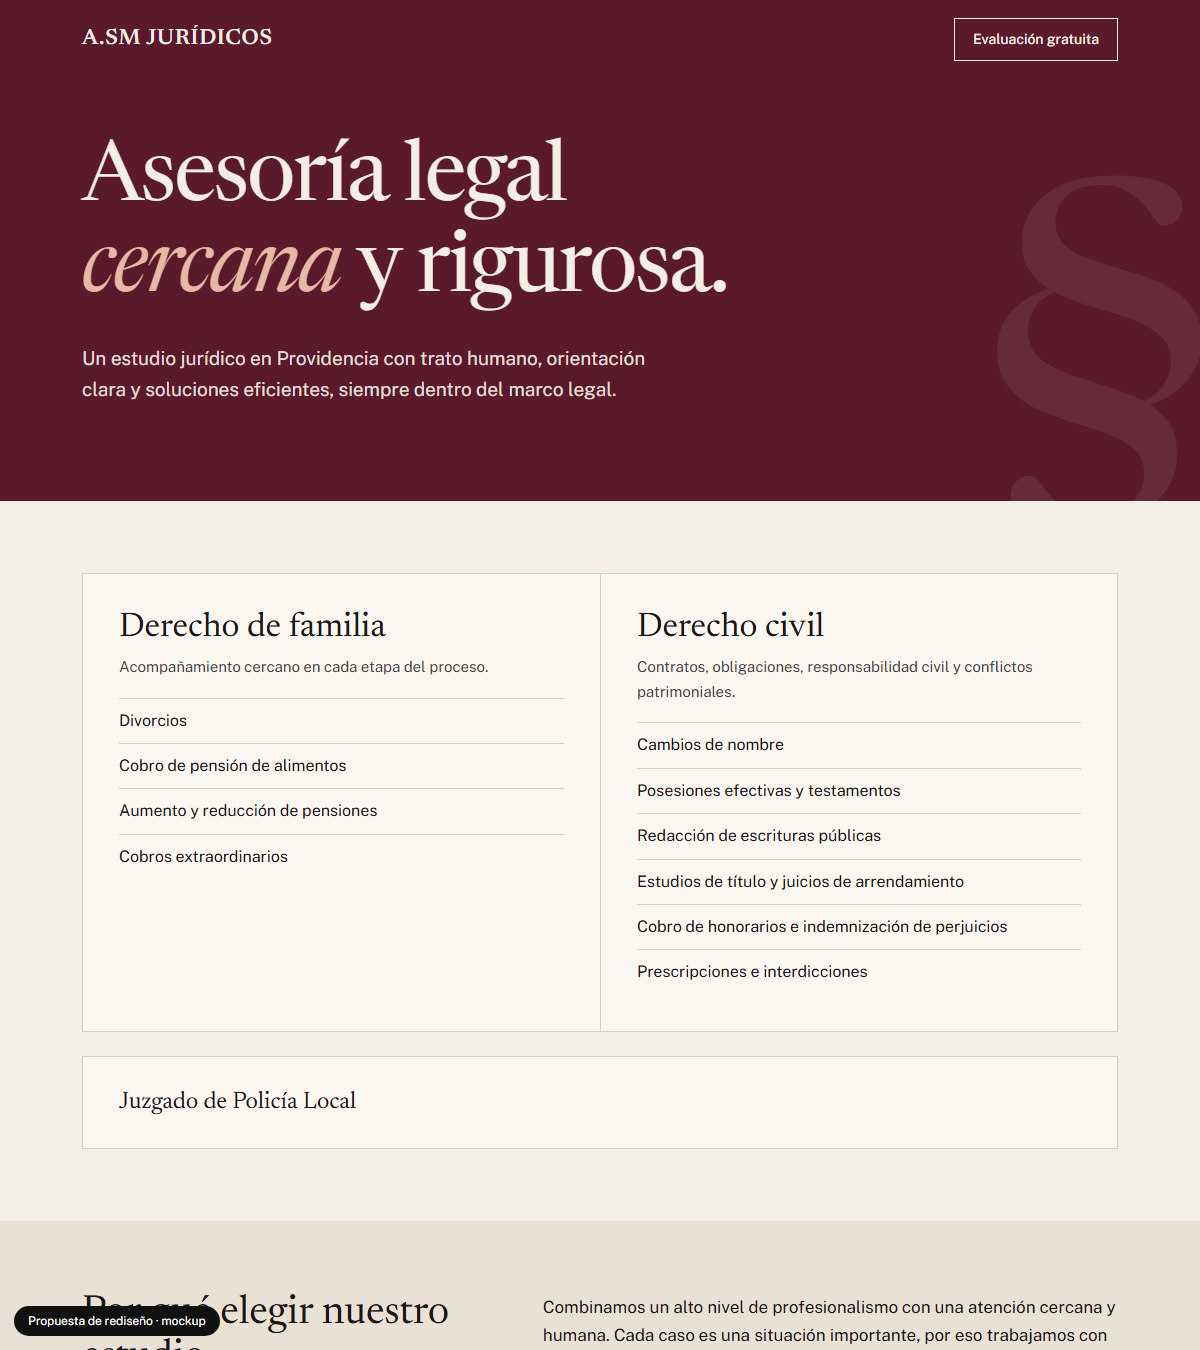
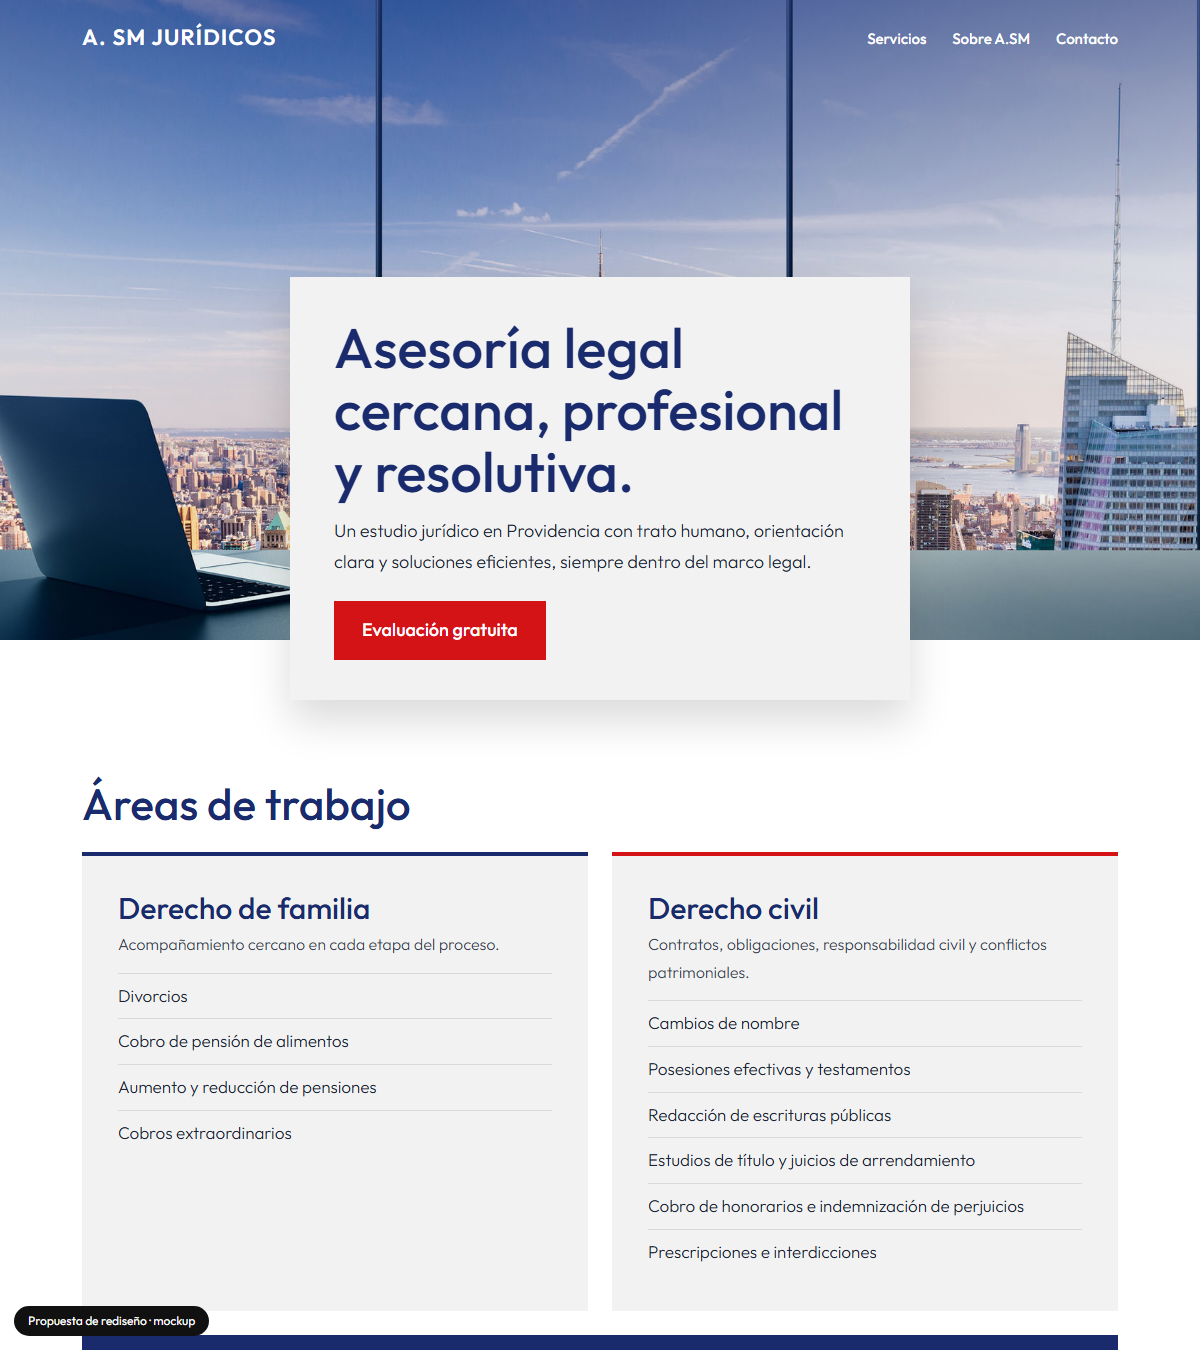
Mockup: a-sm-estudio-juridico-providencia

diff --git a/a-sm-estudio-juridico-providencia/index.html b/a-sm-estudio-juridico-providencia/index.html
@@ -3,46 +3,49 @@
 <meta name="robots" content="noindex,nofollow">
 <title>A.SM Jurídicos · Estudio jurídico en Providencia</title>
 <meta name="description" content="Estudio jurídico en Providencia: derecho de familia, derecho civil y juzgado de policía local. Evaluación gratuita.">
-<link href="https://fonts.googleapis.com/css2?family=Newsreader:ital,opsz,wght@0,6..72,400;0,6..72,600;1,6..72,400&family=Public+Sans:wght@400;500;700&display=swap" rel="stylesheet">
+<link href="https://fonts.googleapis.com/css2?family=Outfit:wght@300;400;500;600&display=swap" rel="stylesheet">
 <style>
-:root{--paper:#f3eee6;--ink:#1c1416;--wine:#5a1a2b;--line:#d8cfc2}
+:root{--navy:#1a2b6d;--slate:#20303c;--red:#d41317;--grey:#f2f2f2;--ink:#1d2433}
 *{box-sizing:border-box;margin:0}html{scroll-behavior:smooth}
-body{background:var(--paper);color:var(--ink);font:17px/1.65 'Public Sans',sans-serif}
+body{background:#fff;color:var(--ink);font:300 18px/1.7 Outfit,sans-serif}
 .wrap{max-width:1080px;margin:0 auto;padding:0 22px}
-h1,h2,h3{font-family:Newsreader,serif;font-weight:400;line-height:1.08}
-header{background:var(--wine);color:var(--paper)}
-header .wrap{display:flex;justify-content:space-between;align-items:center;padding-top:18px;padding-bottom:18px}
-header b{font-family:Newsreader,serif;font-size:22px;letter-spacing:.04em}
-header a.cta{border:1px solid var(--paper);padding:9px 18px;text-decoration:none;font-size:14px;font-weight:500;color:inherit}
-header a.cta:hover,header a.cta:focus-visible{background:var(--paper);color:var(--wine)}
-.hero{background:var(--wine);color:var(--paper);padding:56px 0 96px;position:relative;overflow:hidden}
-.hero h1{font-size:clamp(40px,7vw,86px);max-width:15ch;letter-spacing:-.02em}
-.hero h1 i{color:#e5b9a3}
-.hero p{max-width:52ch;margin-top:26px;font-size:19px;opacity:.92}
-.hero .big{position:absolute;right:-20px;bottom:-90px;font:400 420px/1 Newsreader,serif;opacity:.08;pointer-events:none}
-section{padding:72px 0}
-.areas{display:grid;grid-template-columns:1fr 1fr;border:1px solid var(--line)}
-.area{padding:36px;background:#faf7f1}.area+.area{border-left:1px solid var(--line)}
-.area h2{font-size:34px;margin-bottom:8px}.area p{font-size:15px;opacity:.8;margin-bottom:18px}
-.area ul{list-style:none;padding:0}.area li{padding:9px 0;border-top:1px solid var(--line);font-size:16px}
-.third{margin-top:24px;padding:26px 36px;border:1px solid var(--line);background:#faf7f1;font-family:Newsreader,serif;font-size:24px}
-.why{display:grid;grid-template-columns:1fr 1.4fr;gap:50px}.why h2{font-size:40px}
-.why p+p{margin-top:14px}
-.contact{background:var(--ink);color:var(--paper)}
-.contact .wrap{display:grid;grid-template-columns:1fr 1fr;gap:40px}
-.contact h2{font-size:42px}.contact a{display:block;margin:6px 0;color:#e5b9a3}
-.contact a.btn{display:inline-block;margin-top:22px;background:var(--paper);color:var(--wine);padding:14px 24px;text-decoration:none;font-weight:700}
-.mock{position:fixed;left:14px;bottom:14px;background:#111;color:#fff;font:12px/1 'Public Sans',sans-serif;padding:9px 14px;border-radius:30px;z-index:9}
-@media(max-width:760px){.areas,.why,.contact .wrap{grid-template-columns:1fr}.area+.area{border-left:0;border-top:1px solid var(--line)}.hero .big{font-size:240px}}
+h1,h2,h3{font-weight:500;line-height:1.1;color:var(--navy)}
+header{position:absolute;top:0;left:0;right:0;z-index:3}
+header .wrap{display:flex;justify-content:space-between;align-items:center;height:76px}
+header b{font-weight:600;font-size:22px;color:#fff;letter-spacing:.06em}
+header nav a{color:#fff;margin-left:26px;text-decoration:none;font-weight:500;font-size:15px}
+header nav a:hover{color:#ffb3b5}
+.hero{position:relative;min-height:640px;background:linear-gradient(180deg,rgba(26,43,109,.55),rgba(26,43,109,.15) 40%,rgba(26,43,109,.0)),url(assets/hero.jpg) center/cover;display:flex;align-items:flex-end}
+.card{background:var(--grey);padding:40px 44px;max-width:620px;margin-bottom:-60px;position:relative;box-shadow:0 20px 40px rgba(0,0,0,.15)}
+.card h1{font-size:clamp(34px,5vw,56px)}.card p{margin:14px 0 24px}
+.btn{display:inline-block;background:var(--red);color:#fff;padding:14px 28px;text-decoration:none;font-weight:500}
+.btn:hover,.btn:focus-visible{background:var(--navy)}
+section{padding:80px 0}h2{font-size:clamp(30px,4vw,44px);margin-bottom:24px}
+.first{padding-top:140px}
+.areas{display:grid;grid-template-columns:1fr 1fr;gap:24px}
+.area{background:var(--grey);padding:36px;border-top:4px solid var(--navy)}
+.area:nth-child(2){border-color:var(--red)}
+.area p{font-size:16px;opacity:.85;margin-bottom:14px}
+.area ul{list-style:none;padding:0}.area li{padding:8px 0;border-top:1px solid #d9d9d9;font-size:17px}
+.third{margin-top:24px;padding:24px 36px;background:var(--navy);color:#fff;font-size:22px;font-weight:500}
+.why{background:var(--slate);color:#fff}.why h2{color:#fff}
+.why .wrap{display:grid;grid-template-columns:1fr 1.3fr;gap:50px}.why p+p{margin-top:14px}
+.contact .wrap{display:grid;grid-template-columns:1fr 1fr;gap:40px;align-items:center}
+.contact a.l{display:block;color:var(--navy);font-size:21px;font-weight:500;margin:5px 0}
+footer{padding:26px 0 90px;font-size:14px;opacity:.7}
+.mock{position:fixed;left:14px;bottom:14px;background:#111;color:#fff;font:400 12px/1 Outfit;padding:9px 14px;border-radius:30px;z-index:9}
+@media(max-width:780px){.areas,.why .wrap,.contact .wrap{grid-template-columns:1fr}.card{padding:28px;margin:0 -22px -60px;max-width:none}header nav a:not(:last-child){display:none}.hero{min-height:520px}}
 </style></head><body>
-<header><div class="wrap"><b>A.SM JURÍDICOS</b><a class="cta" href="#contacto">Evaluación gratuita</a></div></header>
-<div class="hero"><div class="wrap"><h1>Asesoría legal <i>cercana</i> y rigurosa.</h1>
-<p>Un estudio jurídico en Providencia con trato humano, orientación clara y soluciones eficientes, siempre dentro del marco legal.</p></div><div class="big">§</div></div>
-<section><div class="wrap"><div class="areas">
-<div class="area"><h2>Derecho de familia</h2><p>Acompañamiento cercano en cada etapa del proceso.</p><ul><li>Divorcios</li><li>Cobro de pensión de alimentos</li><li>Aumento y reducción de pensiones</li><li>Cobros extraordinarios</li></ul></div>
-<div class="area"><h2>Derecho civil</h2><p>Contratos, obligaciones, responsabilidad civil y conflictos patrimoniales.</p><ul><li>Cambios de nombre</li><li>Posesiones efectivas y testamentos</li><li>Redacción de escrituras públicas</li><li>Estudios de título y juicios de arrendamiento</li><li>Cobro de honorarios e indemnización de perjuicios</li><li>Prescripciones e interdicciones</li></ul></div></div>
+<header><div class="wrap"><b>A. SM JURÍDICOS</b><nav><a href="#servicios">Servicios</a><a href="#nosotros">Sobre A.SM</a><a href="#contacto">Contacto</a></nav></div></header>
+<div class="hero"><div class="wrap"><div class="card"><h1>Asesoría legal cercana, profesional y resolutiva.</h1>
+<p>Un estudio jurídico en Providencia con trato humano, orientación clara y soluciones eficientes, siempre dentro del marco legal.</p>
+<a class="btn" href="#contacto">Evaluación gratuita</a></div></div></div>
+<section class="first" id="servicios"><div class="wrap"><h2>Áreas de trabajo</h2><div class="areas">
+<div class="area"><h2 style="font-size:30px;margin-bottom:6px">Derecho de familia</h2><p>Acompañamiento cercano en cada etapa del proceso.</p><ul><li>Divorcios</li><li>Cobro de pensión de alimentos</li><li>Aumento y reducción de pensiones</li><li>Cobros extraordinarios</li></ul></div>
+<div class="area"><h2 style="font-size:30px;margin-bottom:6px">Derecho civil</h2><p>Contratos, obligaciones, responsabilidad civil y conflictos patrimoniales.</p><ul><li>Cambios de nombre</li><li>Posesiones efectivas y testamentos</li><li>Redacción de escrituras públicas</li><li>Estudios de título y juicios de arrendamiento</li><li>Cobro de honorarios e indemnización de perjuicios</li><li>Prescripciones e interdicciones</li></ul></div></div>
 <div class="third">Juzgado de Policía Local</div></div></section>
-<section style="background:#e9e1d4"><div class="wrap why"><h2>Por qué elegir nuestro estudio</h2><div><p>Combinamos un alto nivel de profesionalismo con una atención cercana y humana. Cada caso es una situación importante, por eso trabajamos con dedicación, claridad y transparencia.</p><p>Nos distinguen el rigor técnico y el compromiso ético.</p></div></div></section>
-<section class="contact" id="contacto"><div class="wrap"><div><h2>Cuéntanos tu caso</h2><p style="margin-top:12px">La primera evaluación es gratuita.</p><a class="btn" href="https://wa.me/56963567208?text=Hola%2C%20quisiera%20una%20evaluaci%C3%B3n%20gratuita">Escríbenos por WhatsApp</a></div>
-<div><p>Av. Rancagua 0157, Providencia</p><a href="tel:+56963567208">+56 9 6356 7208</a><a href="mailto:asmjurdicos@gmail.com">asmjurdicos@gmail.com</a><a href="https://www.instagram.com/asmestudiojuridico">Instagram @asmestudiojuridico</a></div></div></section>
+<section class="why" id="nosotros"><div class="wrap"><h2>Por qué elegir nuestro estudio</h2><div><p>Combinamos un alto nivel de profesionalismo con una atención cercana y humana. Cada caso es una situación importante, por eso trabajamos con dedicación, claridad y transparencia.</p><p>Nos distinguen el rigor técnico y el compromiso ético.</p></div></div></section>
+<section class="contact" id="contacto"><div class="wrap"><div><h2>Cuéntanos tu caso</h2><p>La primera evaluación es gratuita. Escríbenos y te respondemos a la brevedad.</p><a class="btn" style="margin-top:18px" href="https://wa.me/56963567208?text=Hola%2C%20quisiera%20una%20evaluaci%C3%B3n%20gratuita">Escríbenos por WhatsApp</a></div>
+<div><a class="l" href="tel:+56963567208">+56 9 6356 7208</a><a class="l" href="mailto:asmjurdicos@gmail.com">asmjurdicos@gmail.com</a><p>Av. Rancagua 0157, Providencia</p><a class="l" href="https://www.instagram.com/asmestudiojuridico">Instagram @asmestudiojuridico</a></div></div></section>
+<div class="wrap"><footer>A. SM Jurídicos · Providencia</footer></div>
 <div class="mock">Propuesta de rediseño · mockup</div></body></html>
